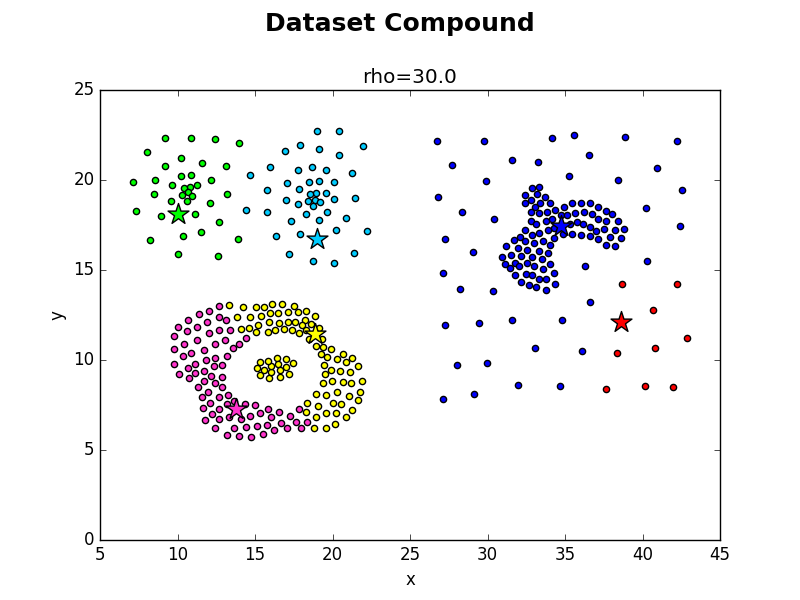
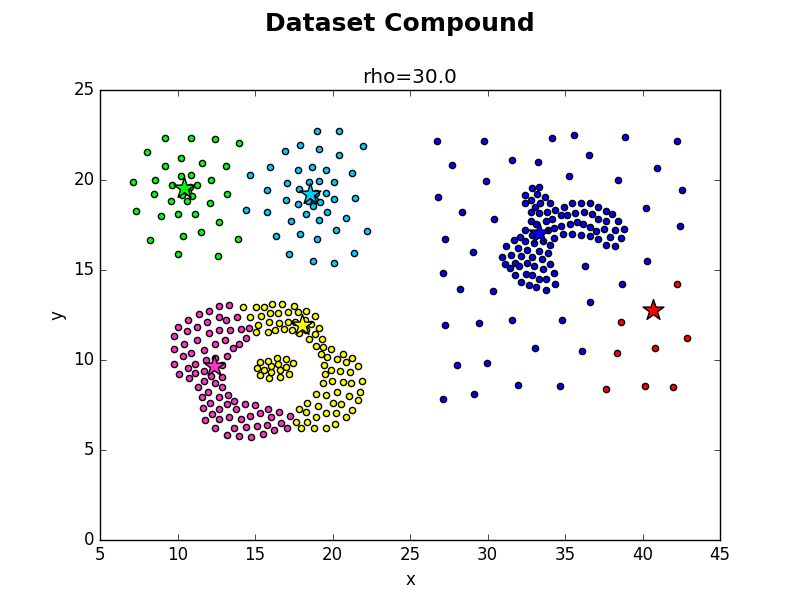
compound

diff --git a/src/main_compound.py b/src/main_compound.py
@@ -30,7 +30,7 @@ for f, K in a:
     for rho in [30.0]:
         dissimilarity = DensityDistance(rho=rho)
 
-        cluster = Cluster(database, dissimilarity, P_size=50, K=K, max_iterations=50)
+        cluster = Cluster(database, dissimilarity, P_size=150, K=K, max_iterations=50)
 
         score, score_normalized = cluster.compute()
         results.append((name, K, rho, score, score_normalized))
